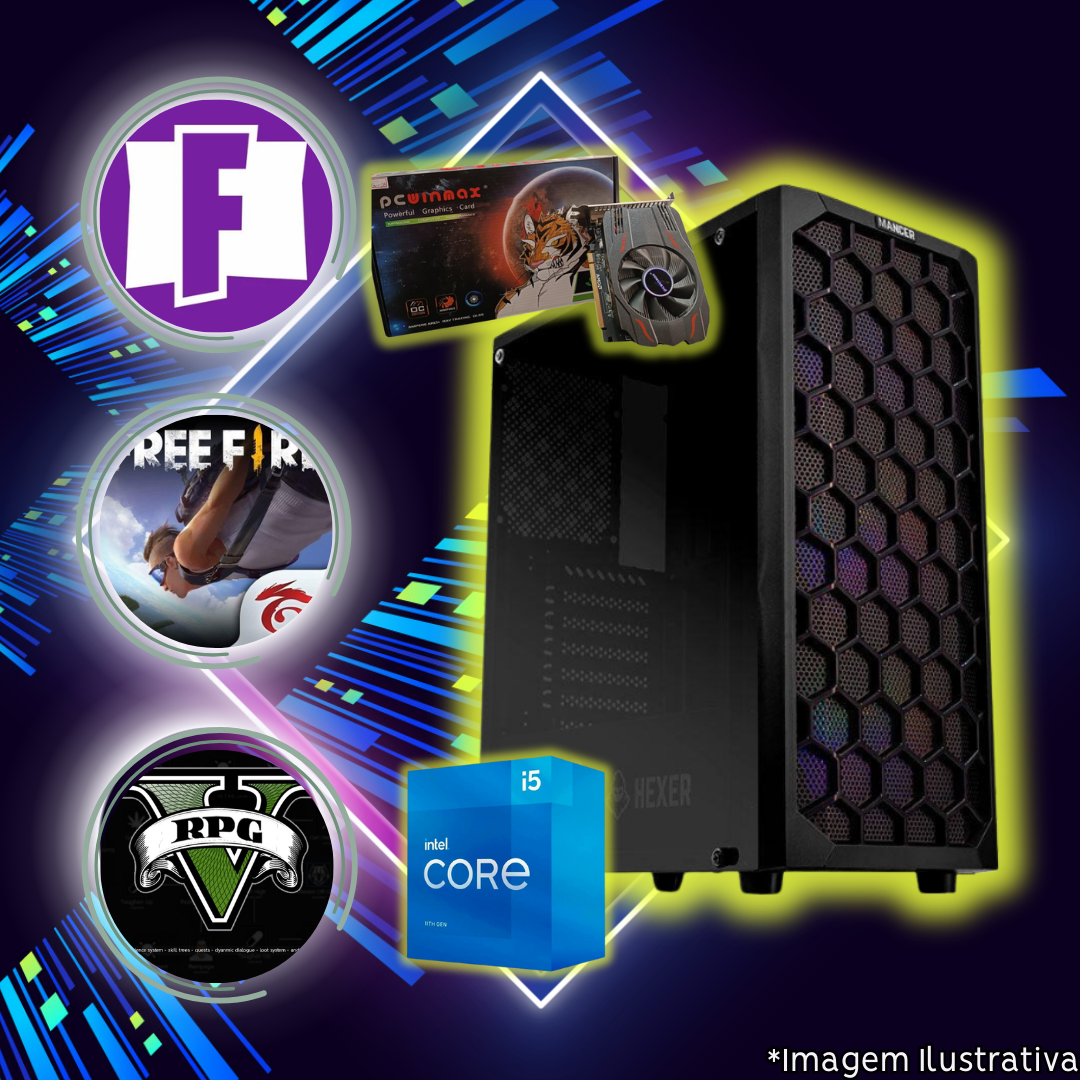
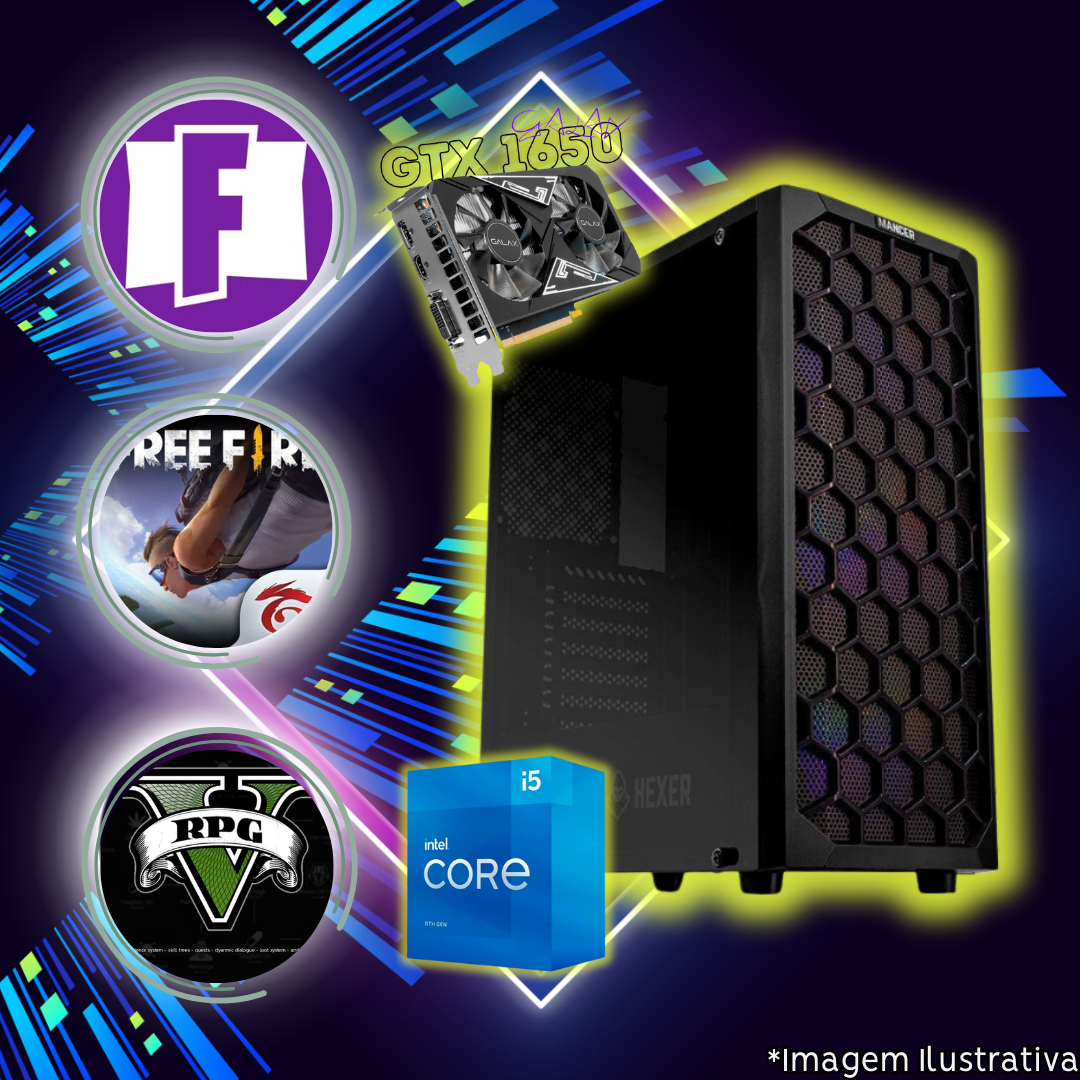
PC INTEL Nº5 (PC0040) config and pic UPDATED

Changed region(s): [[0.3056, 0.0917, 0.6722, 0.3667]]

diff --git a/src/routes/intel/+page.svelte b/src/routes/intel/+page.svelte
@@ -32,9 +32,9 @@
 
     // R$3.590
     {
-      title: "Nº5 - (PC0040)i5 de 6ª + RX 560",
+      title: "Nº5 - (PC0040)i5 de 7ªGEN + RX 560",
       image: "PC0040.png",
-      text: "*Máquina ideal para Jogos como:* \n🌎 MINECRAFT\n🟥 ROBLOX\n🚔 GTA RP\n🔫 CSGO/VALORANT\n🦙 FORTNITE\n\n*Processador:* Processador:* I5-6600 (6ª Geração)\n*Placa Mãe:* H110\n*Memória RAM:* 2x8(16GB) DDR4\n*Placa de Vídeo:* RX 560 4GB\n*Armazenamento:* SSD 480GB\n*Gabinete:* GAMER MINI AQUARIO C/3FANS\n*Fonte:* 500W\n\n*R$ 3.590,00* em até 10x sem juros!\n\n*Formas de Pagamento:*\n💳 Cartão - Débito à vista ou Crédito em até 10x *SEM JUROS*\n❖ Pix á Vista\n❌ NÃO aceitamos pagamento via boleto bancário\n❌ NÃO geramos link de pagamento \n\n🔥 Não perca essa chance de melhorar seu setup e jogar com qualidade! 🔥\n\n",
+      text: "*Máquina ideal para Jogos como:* \n🌎 MINECRAFT\n🟥 ROBLOX\n🚔 GTA RP\n🔫 CSGO/VALORANT\n🦙 FORTNITE\n\n*Processador:* Processador:* I5 de 6ªGEN\n*Placa Mãe:* H110\n*Memória RAM:* 2x8(16GB) DDR4\n*Placa de Vídeo:* GTX 1650 4GB\n*Armazenamento:* SSD 480GB\n*Gabinete:* GAMER MINI AQUARIO C/3FANS\n*Fonte:* 500W\n\n*R$ 3.890,00* em até 10x sem juros!\n\n*Formas de Pagamento:*\n💳 Cartão - Débito à vista ou Crédito em até 10x *SEM JUROS*\n❖ Pix á Vista\n❌ NÃO aceitamos pagamento via boleto bancário\n❌ NÃO geramos link de pagamento \n\n🔥 Não perca essa chance de melhorar seu setup e jogar com qualidade! 🔥\n\n",
     },
 
     // R$4.290,00
